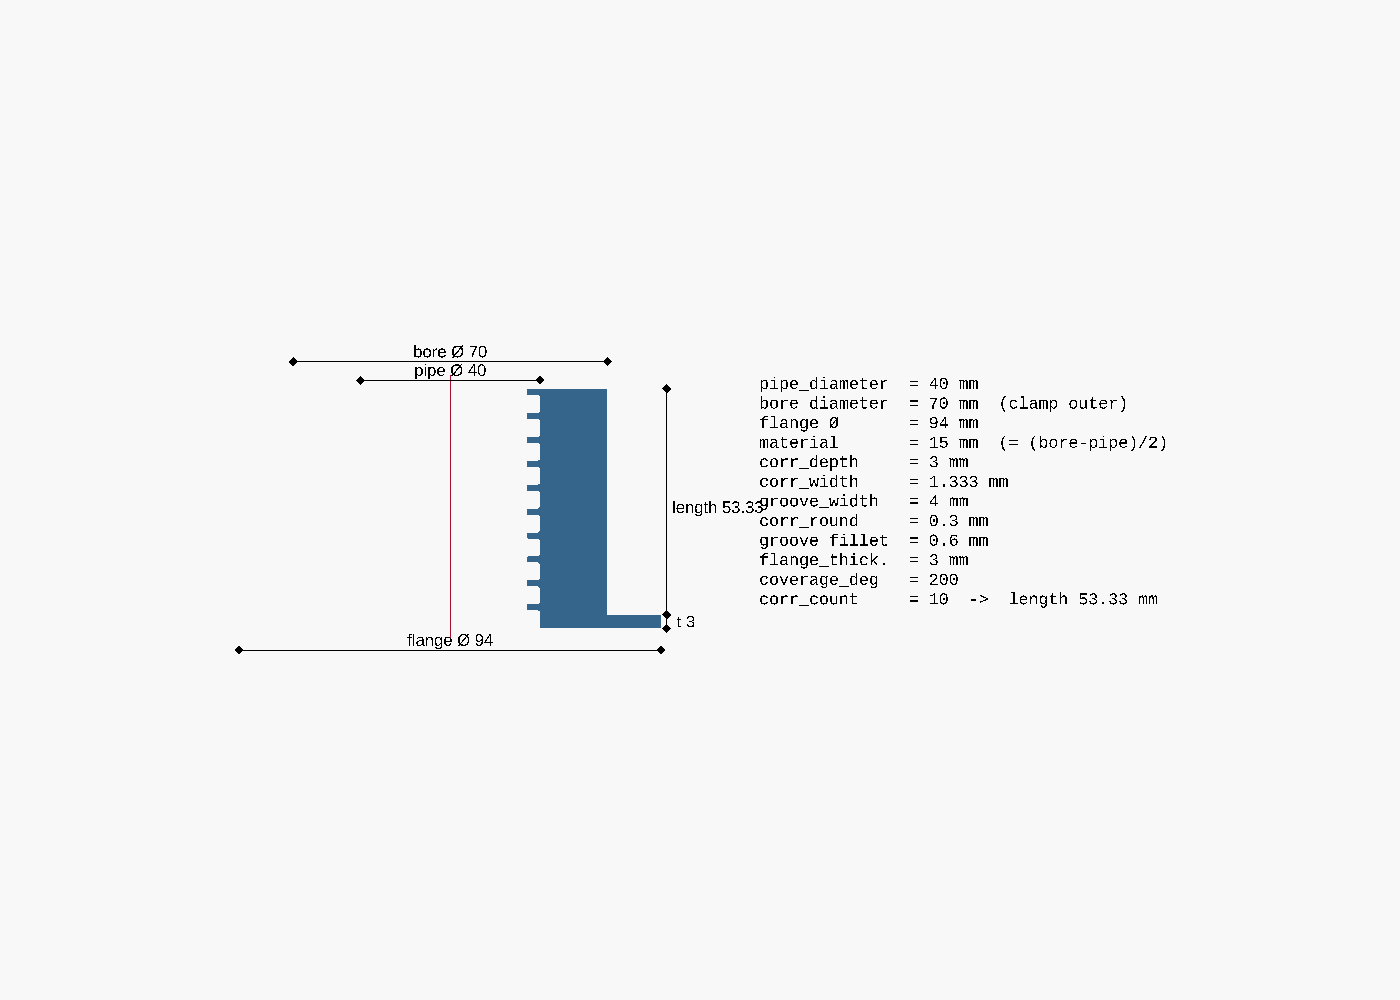
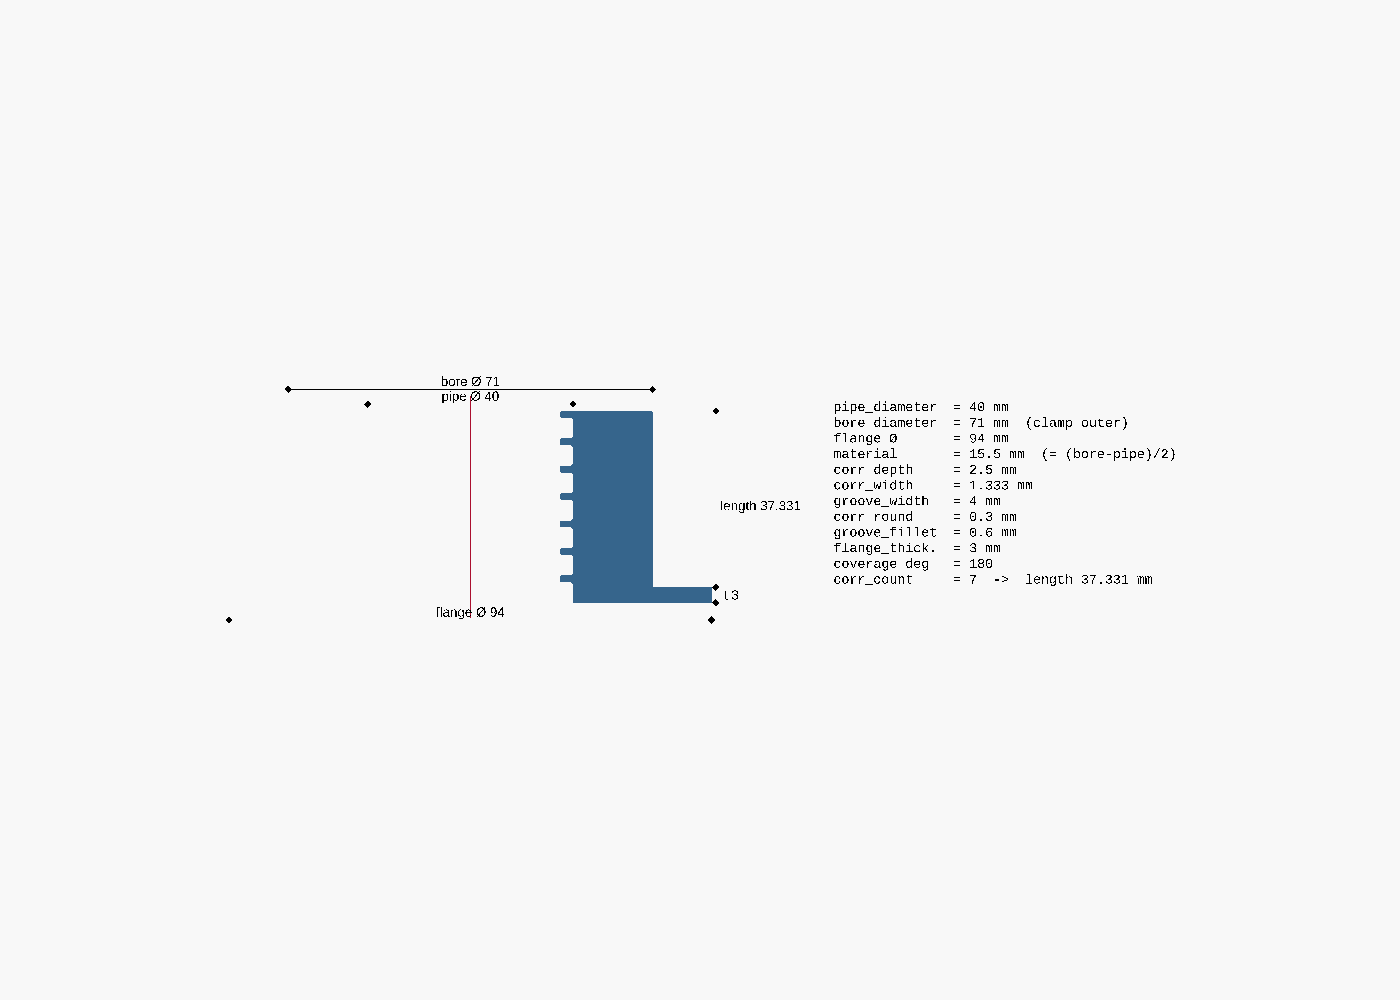
Shorten 40mm mount to 7 teeth; Ø71 bore, 2.5mm teeth, 180° only
Physical test of the 10-tooth version showed it was too long and the teeth
sat too deep. Adjust the conduit_40mm_mount preset:

  - corr_count 10 -> 7            (length 53.33 -> 37.33 mm; 34.33 mm of
                                   that goes into the wall, the 3 mm flange
                                   sits proud against the surface)
  - corr_depth 3 -> 2.5           (leaves 0.5 mm clearance at the bottom of
                                   the conduit's 3 mm grooves, so the part
                                   seats without being forced on)
  - bore_diameter 70 -> 71        (15.5 mm of solid wall over the pipe)

Drop the _150/_200/_210 coverage variants and their renders. Two identical
180° halves wrap the pipe a full 360°, which is what we want when printing
several: one STL, no left/right handing, each half prints flat.

render.sh gains the three mount 3D views (auto-framed via --viewall) so they
cannot drift from the preset, with the shared -D overrides hoisted into one
array. They have to be repeated from pipe_clamp.json because -P does not
reach parameters that dimensions.scad picks up via include.

dimensions.scad: move the legend clear of the length dimension label, which
collided once the part got shorter.

Changed region(s): [[0.2764, 0.341, 0.8293, 0.651], [0.3071, 0.589, 0.3379, 0.651]]

diff --git a/README.md b/README.md
@@ -140,10 +140,7 @@ Customizer's preset dropdown in the GUI):
 | `conduit_32mm` | 32 | 34 | |
 | `conduit_40mm` | 40 | 42 | |
 | `conduit_40mm_fittest` | 40 | 43 | 25° fit-test sliver, measured 40 mm pipe (3 mm deep teeth, no flange) |
-| `conduit_40mm_mount` | 40 | 70 | 180° wall mount, measured 40 mm pipe; Ø70 bore, Ø94 flange (12 mm proud of the hole each side), 10 teeth, rounded grooves |
-| `conduit_40mm_mount_210` | 40 | 70 | As `_mount` but 210° coverage — snaps onto the pipe; pairs with `_150` to wrap a full 360° |
-| `conduit_40mm_mount_150` | 40 | 70 | As `_mount` but 150° coverage — the 360°−210° complement of `_210` |
-| `conduit_40mm_mount_200` | 40 | 70 | As `_mount` but 200° coverage — snap-fit single-piece clamp |
+| `conduit_40mm_mount` | 40 | 71 | 180° wall mount, measured 40 mm pipe; Ø71 bore, Ø94 flange (11.5 mm proud of the hole each side), 7 teeth, rounded grooves |
 
 The plain `conduit_*` presets only set the two diameters (bore = pipe + 2 mm) and inherit
 the default corrugation/flange values — **adjust `corr_depth` and pitch to your actual
@@ -152,14 +149,20 @@ preset shows the fuller pattern: a measured 40 mm conduit (crest 40, valley 34, 
 5.33 = 4 mm crest + 1.33 mm valley) rendered as a narrow 25° arc to print-test the tooth
 fit cheaply before committing to a full clamp.
 
-The `_mount` presets are a thick-walled wall fitting: Ø70 bore (15 mm of solid wall over
-the pipe), a Ø94 flange that catches on the wall hole, and 10 teeth (≈53 mm long). The
-cross-section is the same for all coverages — only the arc differs — so one dimensioned
-drawing covers them all:
+The `_mount` preset is a thick-walled wall fitting: Ø71 bore (15.5 mm of solid wall over
+the pipe), a Ø94 flange that catches on the wall hole, and 7 teeth (≈37.3 mm long).
+Coverage is **180°**, so two identical parts wrap the pipe a full 360° — one STL, no
+left/right handing, and each half prints flat without support. A half-shell does not snap
+on by itself; it needs its mate (or a cable tie) to close around the pipe.
+
+The teeth bite `corr_depth` 2.5 mm into the conduit's 3 mm-deep grooves, leaving 0.5 mm of
+clearance at the valley bottom so the part seats without being forced.
 
 ![40 mm mount dimensioned drawing](images/conduit_40mm_mount_dimensions.png)
 
-> The `_210`/`_150` pair wraps the pipe in two complementary parts (210° + 150° = 360°).
+| Down the bore | 3/4 view | Flange end |
+|:---:|:---:|:---:|
+| ![Mount top view](images/conduit_40mm_mount_top.png) | ![Mount 3/4 view](images/conduit_40mm_mount.png) | ![Mount flange view](images/conduit_40mm_mount_flange.png) |
 
 Render one preset from the command line:
 
